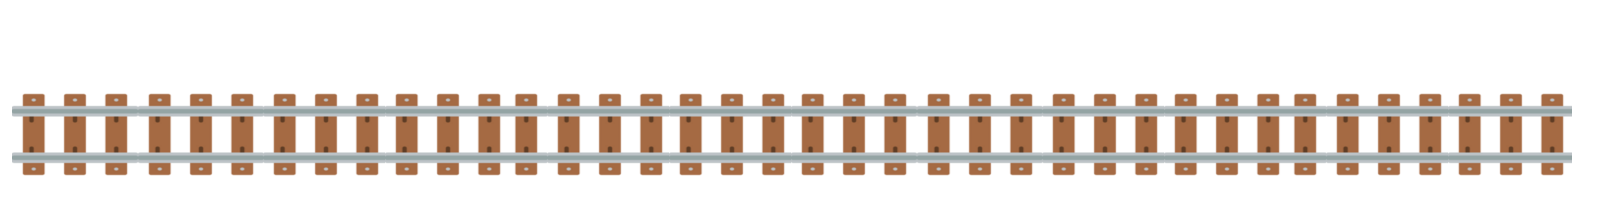
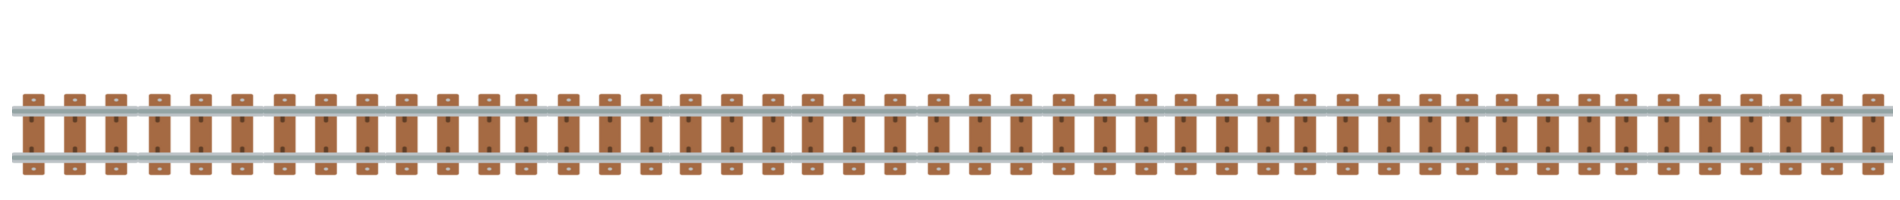
added code wrap and fixed soft reset glitch

Changed region(s): [[0.0, 0.45, 1.0, 0.9]]

diff --git a/main.py b/main.py
@@ -12,7 +12,7 @@ trackImage = pygame.image.load("tracks_long.png")
 stationImage = pygame.image.load("station-sm.png")
 stationLoc = (820, 60)
 trainY = 120
-trackLoc = (80, 100)
+trackLoc = (-15, 100)
 input_rect = pygame.Rect(600, 350, 400, 500)
 run_rect = pygame.Rect(300, 350, 200, 200)
 directions_rect = pygame.Rect(1200, 500, 400, 400)
@@ -23,9 +23,9 @@ color = color_passive
 base_font = pygame.font.Font(None, 32)
 train1_start = 650
 train2_start = 1000
-description = "the two trains on the track are running the same codebase, try to get them to collide using only \
-these 4 commands: MVL (move left), MVR (move right), STS (skip instruction if at the station), and JMP \
-(jump to another line in the code).  The box in the middle is for your code.  The green box runs your code.  \
+description = "the two trains on the track are running the same codebase, try to get them to collide in as few lines \
+as possible using only these 4 commands: MVL (move left), MVR (move right), STS (skip instruction if at the station), \
+and JMP (jump to another line in the code).  The box in the middle is for your code.  The green box runs your code.  \
 The red box resets and clears                                                                   Good luck!"
 
 
@@ -83,8 +83,6 @@ def main():
             train2_x, at_station2, pc2 = run_next_instruction(instruction_set, train2_x, at_station2, pc2)
         if train1_x > train2_x - 120 or pc1 >= len(instruction_set) or pc2 >= len(instruction_set):
             time.sleep(5)
-            line = 0
-            instruction_set.append('')
             trains_running = False
             train1_x = train1_start
             train2_x = train2_start
@@ -100,7 +98,7 @@ def main():
         pygame.draw.rect(screen, pygame.Color('green'), run_rect)
         for i in range(len(instruction_set)):
             text_surface = base_font.render(str(i) + ': ' + instruction_set[i], True, (255, 255, 255))
-            screen.blit(text_surface, (input_rect.x + 5, input_rect.y + 5 + (i*22)))
+            screen.blit(text_surface, (input_rect.x + 5 + (120 * int(i / 22)), input_rect.y + 5 + ((i % 22) * 22)))
         screen.blit(trackImage, trackLoc)
         screen.blit(stationImage, stationLoc)
         draw_train(train1_x)
